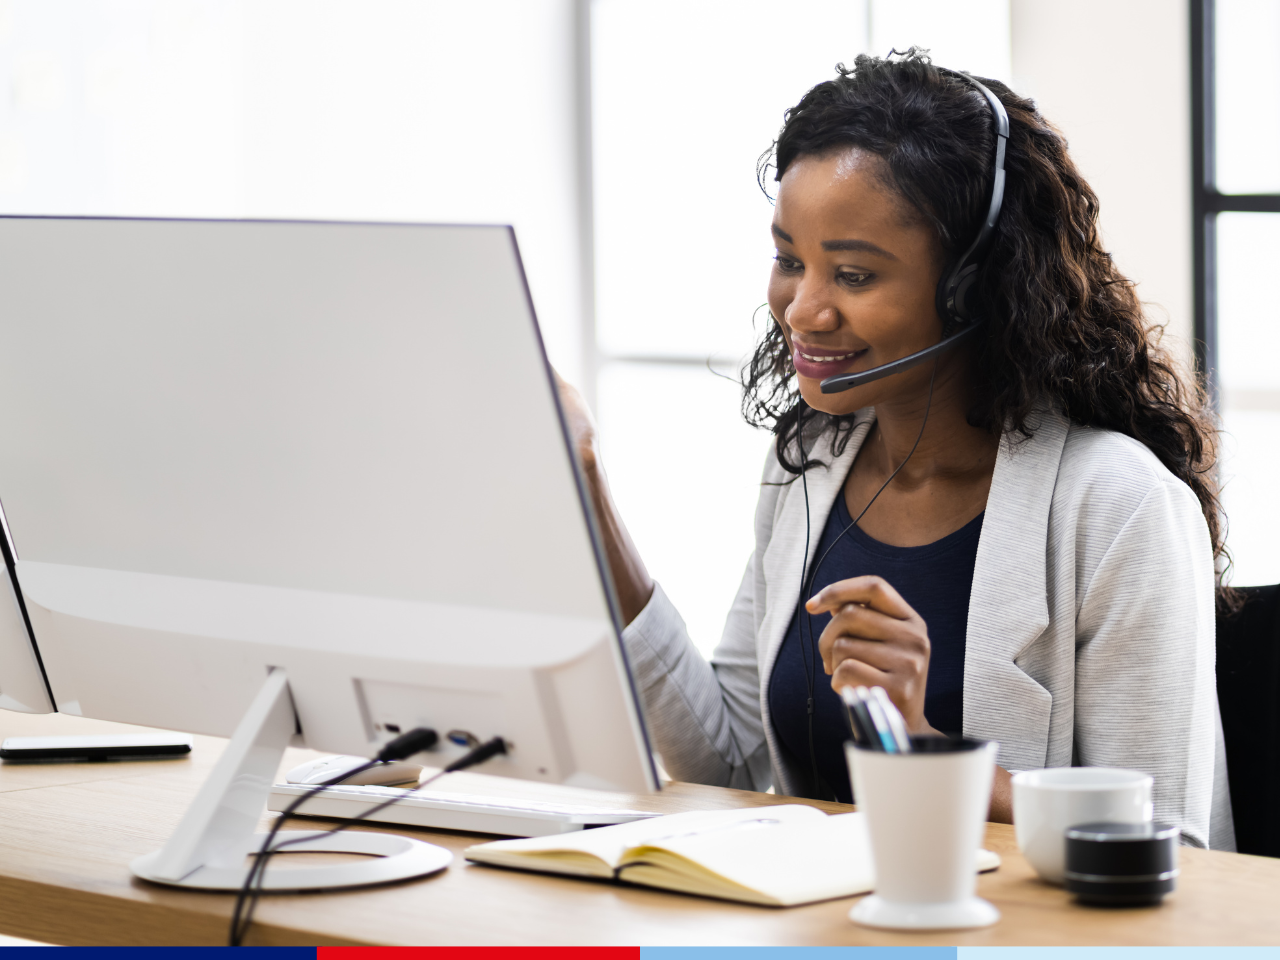
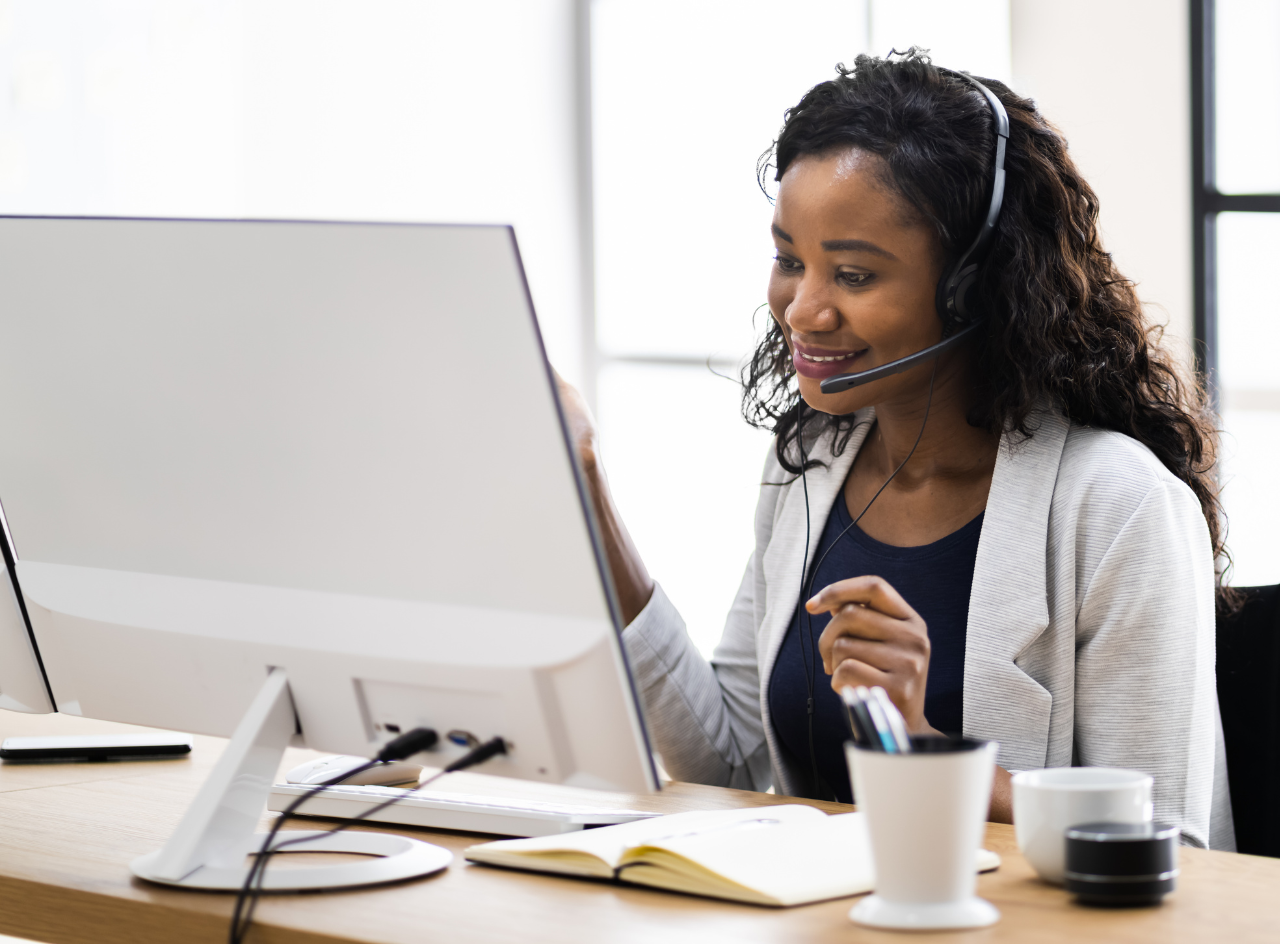
"Kontakt" side oprettet

diff --git a/css/kontakt.css b/css/kontakt.css
@@ -1,0 +1,140 @@
+h1 {
+    display: flex;
+    justify-content: center;
+    font-size: clamp(1.5rem, 10vw, 4rem); /*clamp er en funktion der dynamisk tilpasser størrelsen imellem min og max*/
+    color: white;
+}
+
+h2{
+    font-size:2rem;
+}
+
+.blue{
+    color: blue;
+}
+
+.italics{
+    font-style: italic;
+}
+
+.h1-orange-bold{
+    font-size: 4rem;
+    color: orange;
+    font-weight: bold;
+}
+
+#list{
+    font-size: 3rem;
+    line-height: 1.5;
+    color: white;
+}
+
+#login{
+    font-size: clamp(1.5rem, 5vw, 3rem);
+}
+
+
+.orange-line {
+    border: none;
+    height: 7px;
+    background-color: #FBB040;
+    margin-bottom:20px;
+}
+
+.pink-line {
+    border: none;
+    height: 7px;
+    background-color: #D414B7;
+    margin-bottom:20px;
+}
+
+#footer-line{
+    border: none;
+    height: 7px;
+    background-color: #FBB040;
+}
+
+.flex-container{
+    display: flex;
+    flex-direction: column;
+    align-items: center;
+    justify-content: space-around;
+}
+
+.kontakt-info{
+    display: flex;
+    flex-direction: column;
+    align-items: center;
+    justify-content: center;
+    color:white;
+    font-size: 3rem;
+}
+
+
+
+
+/* sideelementer */
+
+
+
+
+footer{
+    color: white;
+    font-size: 0.75rem;
+}
+
+
+/* wireframe (grov opdeling af siden - kan også kaldes "grid") */
+body{
+    display: flex;
+    justify-content: center;
+}
+
+#page{
+    background-color: #002E6D;
+    width: 100%;
+    max-width: 800px;
+}
+
+.header-image{
+    width: 100%;
+    max-width: 800px;
+}
+
+.main-image{
+    width: 90%;
+    height: 90%;
+    max-width: 800px;
+}
+#laugh{
+    display:flex;
+    justify-content: center;
+}
+
+
+/* Navigation */
+nav{
+    display: flex;
+    justify-content: center;
+}
+
+header nav ul{
+    color: white;
+    font-size: 1.5rem;
+    text-decoration: underline;
+    list-style: none;
+    display: flex;
+    gap: 100px;
+}
+
+
+
+@media (max-width: 600px){
+    header nav ul{
+        flex-direction: column;
+    }
+
+    h1{
+        font-size: 2rem;
+    }
+}

diff --git a/kontakt.html b/kontakt.html
@@ -4,7 +4,7 @@
   <meta charset="UTF-8">
   <meta name="viewport" content="width=device-width, initial-scale=1">
   <title>Kontakt</title>
-  <link rel="stylesheet" href="css/minside.css">
+  <link rel="stylesheet" href="css/kontakt.css">
 </head>
 
 <body>
@@ -13,7 +13,7 @@
     <img src="images/dark.png" class="header-image">
     <hr class="orange-line">
     <div id="laugh">
-      <img src="images/laugh.jpg" class="main-image">
+      <img src="images/contact.png" class="main-image">
     </div>
     <nav>
       <ul>
@@ -27,18 +27,15 @@
   </header>
 
   <main>
-    <h1 id="minside">Min Side</h1>
-    <div class="button-container">
-      <button type="submit">Log ind</button>
+    <h1 id="kontakt">Kontakt</h1>
+    <div class="flex-container">
+      <div class="kontakt-info">
+        <p>Telefon:<br> 12345678</p>
+        <p>E-mail: cph@cphbusiness.dk</p>
+        <p>Åbent hverdage kl 8-14</p>
+      </div>
     </div>
-    <div id="list">
-      <ul>
-        <li>Gemte nyhedsbreve</li>
-        <li>Opdatér nyhedsbreve</li>
-        <li>Personlige indstillinger</li>
-        <li>Log ud</li>
-      </ul>
-    </div>
+
     <hr id="footer-line">
   </main>
 
